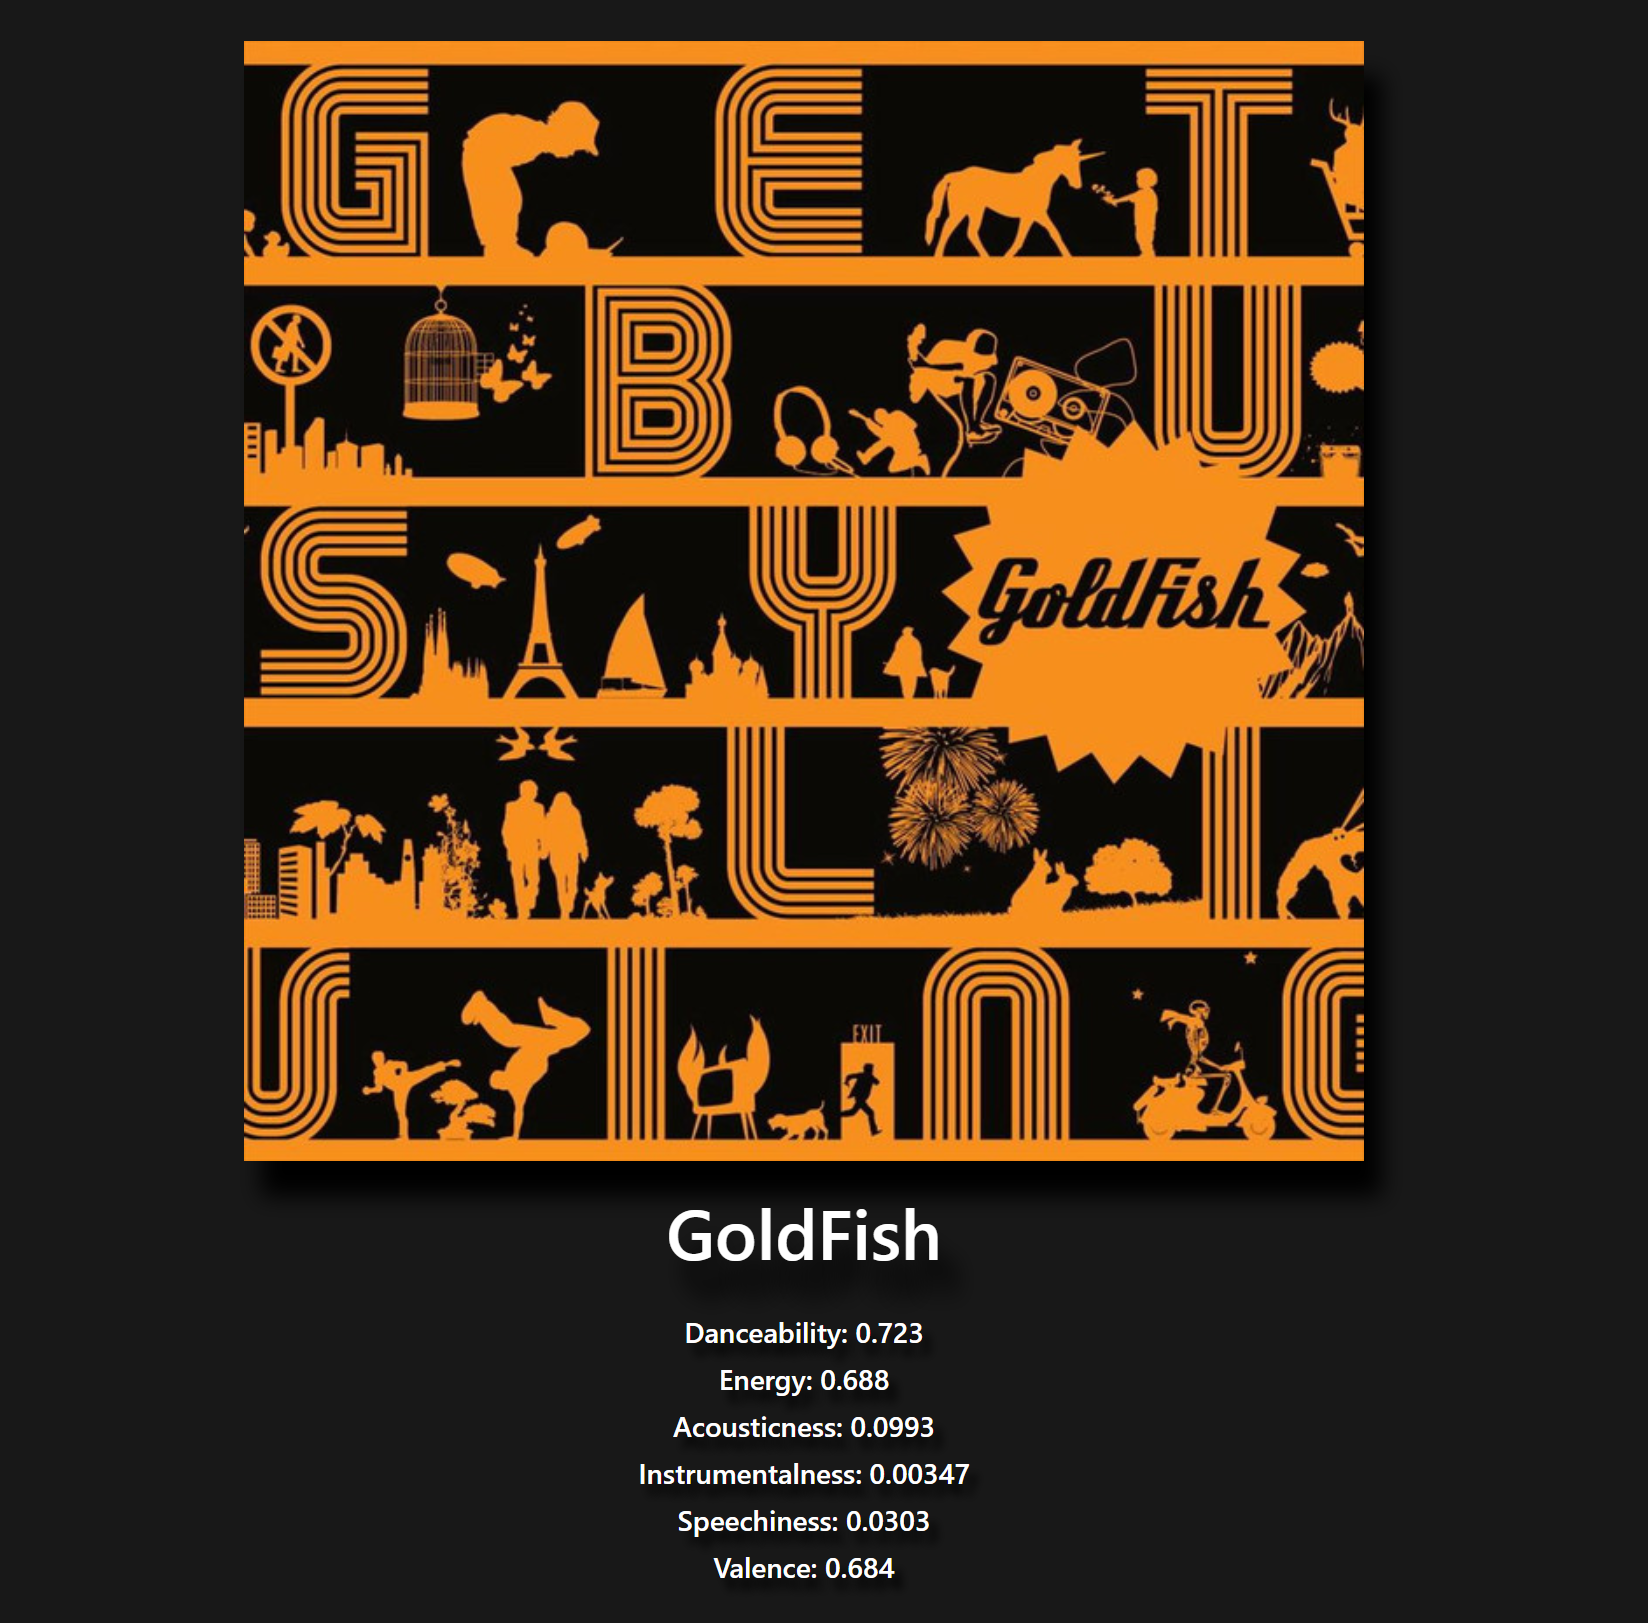
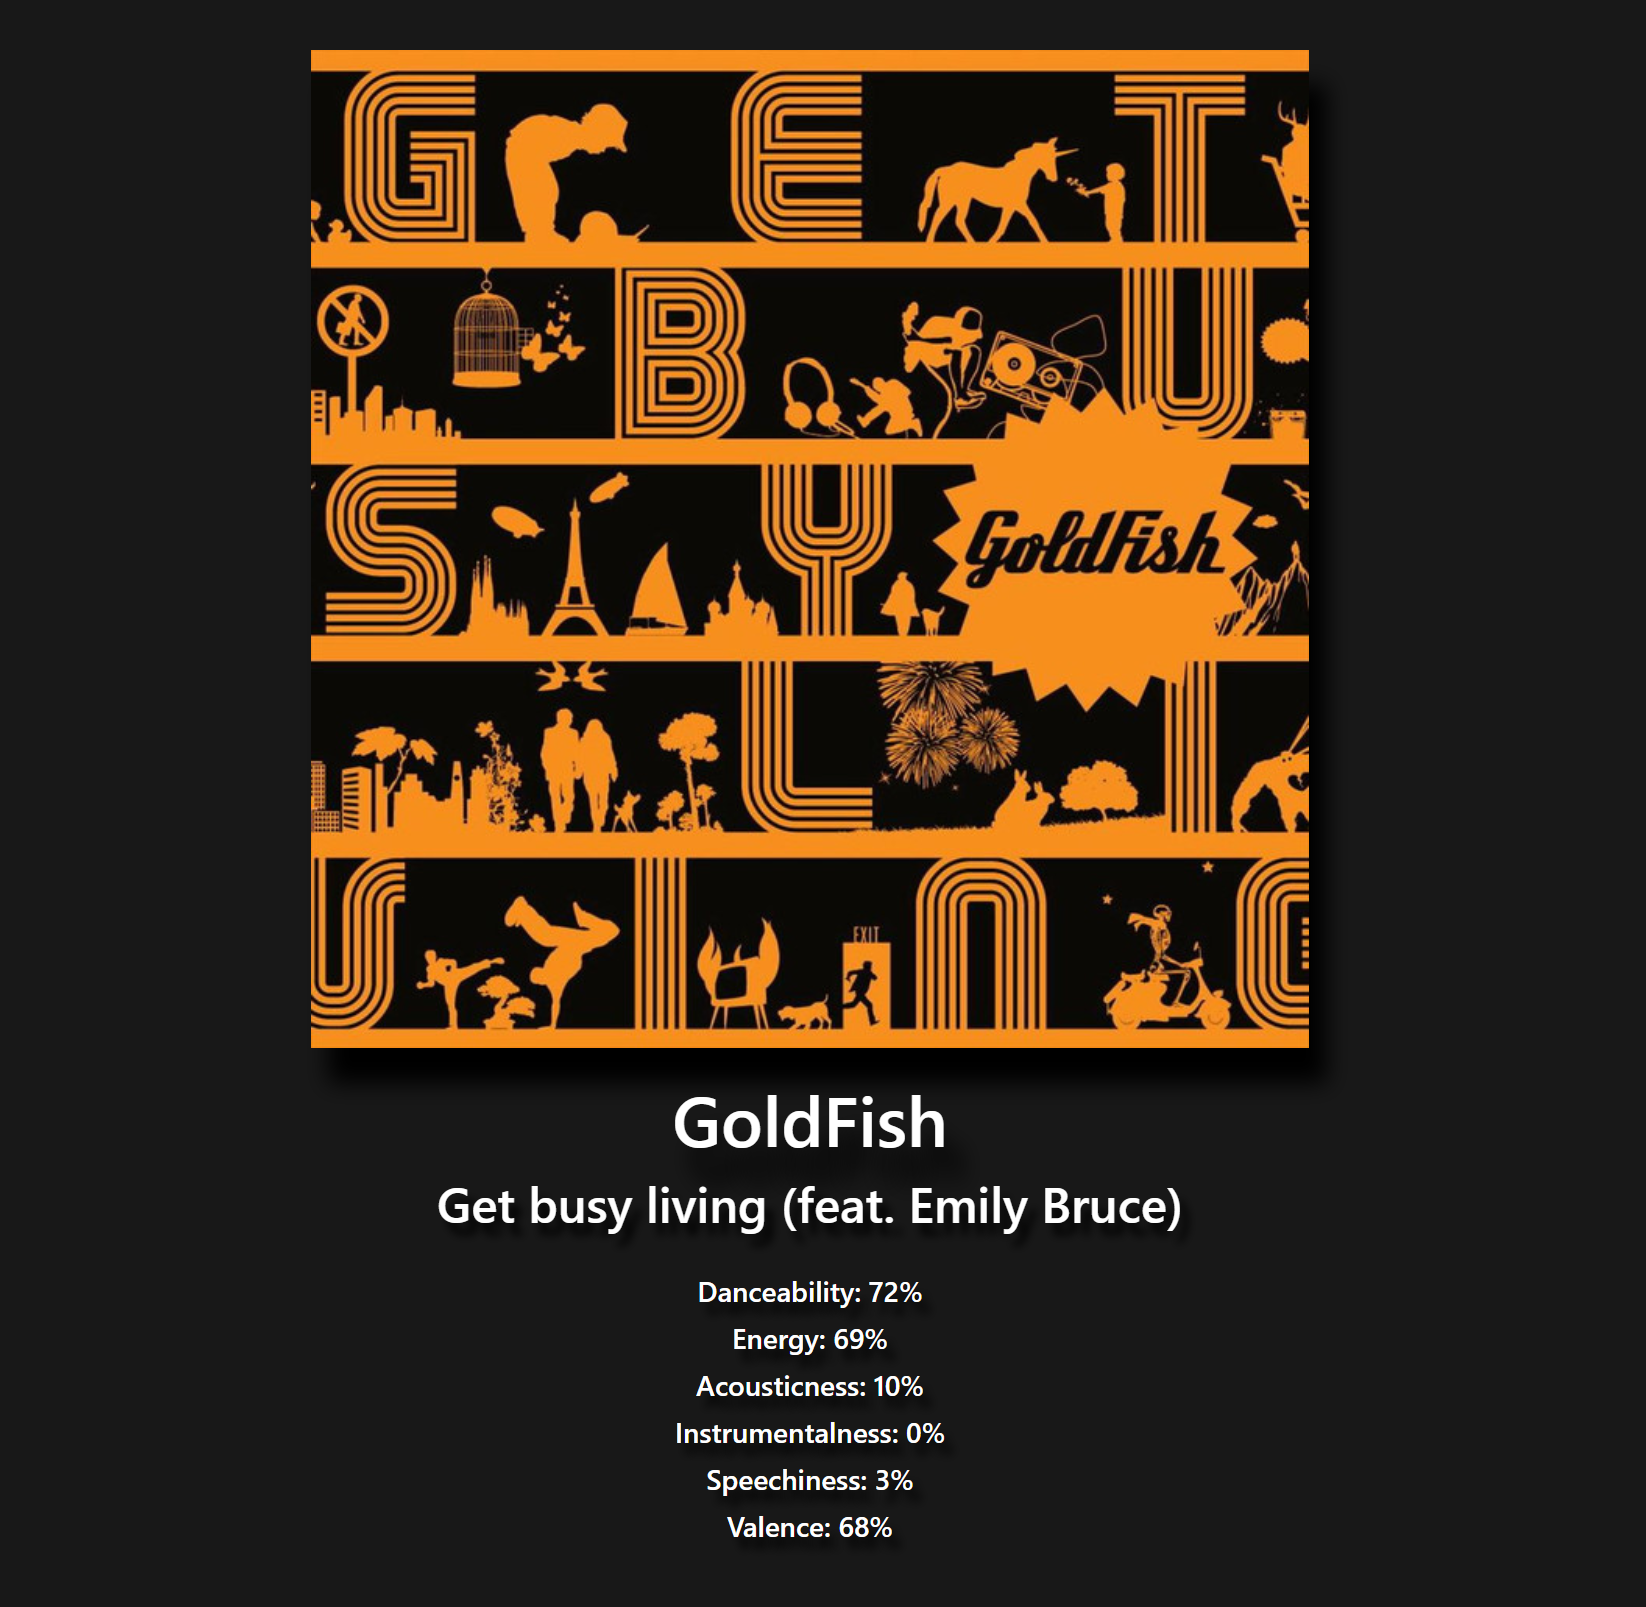
added mobile responsiveness

diff --git a/public/js/almost_there.js b/public/js/almost_there.js
@@ -78,115 +78,109 @@ var sliders = function () {
     $("#dance").ionRangeSlider({
         type: "double",
         min: 0,
-        max: 1,
-        from: minmaxarray[0],
-        to: minmaxarray[1],
-        step: 0.1,
+        max: 100,
+        from: minmaxarray[0]*100,
+        to: minmaxarray[1]*100,
+        step: 1,
         hide_min_max: true,
+        postfix: "%",
         onStart: function(data){
-            queryarray[0] = data.from;
-            queryarray[1] = data.to;
-            console.log(queryarray);
+            queryarray[0] = data.from/100;
+            queryarray[1] = data.to/100;
         },
         onFinish: function(data){
-            queryarray[0] = data.from;
-            queryarray[1] = data.to;
-            console.log(queryarray);
+            queryarray[0] = data.from/100;
+            queryarray[1] = data.to/100;
         }
     });
     $("#energy").ionRangeSlider({
         type: "double",
         min: 0,
-        max: 1,
-        from: minmaxarray[2],
-        to: minmaxarray[3],
-        step: 0.1,
+        max: 100,
+        from: minmaxarray[2]*100,
+        to: minmaxarray[3]*100,
+        step: 1,
         hide_min_max: true,
+        postfix: "%",
         onStart: function(data){
-            queryarray[2] = data.from;
-            queryarray[3] = data.to;
-            console.log(queryarray);
+            queryarray[2] = data.from/100;
+            queryarray[3] = data.to/100;
         },
         onFinish: function(data){
-            queryarray[2] = data.from;
-            queryarray[3] = data.to;
-            console.log(queryarray);
+            queryarray[2] = data.from/100;
+            queryarray[3] = data.to/100;
         }
     });
     $("#acoust").ionRangeSlider({
         type: "double",
         min: 0,
-        max: 1,
-        from: minmaxarray[4],
-        to: minmaxarray[5],
-        step: 0.1,
+        max: 100,
+        from: minmaxarray[4]*100,
+        to: minmaxarray[5]*100,
+        step: 1,
         hide_min_max: true,
+        postfix: "%",
         onStart: function(data){
-            queryarray[4] = data.from;
-            queryarray[5] = data.to;
-            console.log(queryarray);
+            queryarray[4] = data.from/100;
+            queryarray[5] = data.to/100;
         },
         onFinish: function(data){
-            queryarray[4] = data.from;
-            queryarray[5] = data.to;
-            console.log(queryarray);
+            queryarray[4] = data.from/100;
+            queryarray[5] = data.to/100;
         }
     });
     $("#instru").ionRangeSlider({
         type: "double",
         min: 0,
-        max: 1,
-        from: minmaxarray[6],
-        to: minmaxarray[7],
-        step: 0.1,
+        max: 100,
+        from: minmaxarray[6]*100,
+        to: minmaxarray[7]*100,
+        step: 1,
         hide_min_max: true,
+        postfix: "%",
         onStart: function(data){
-            queryarray[6] = data.from;
-            queryarray[7] = data.to;
-            console.log(queryarray);
+            queryarray[6] = data.from/100;
+            queryarray[7] = data.to/100;
         },
         onFinish: function(data){
-            queryarray[6] = data.from;
-            queryarray[7] = data.to;
-            console.log(queryarray);
+            queryarray[6] = data.from/100;
+            queryarray[7] = data.to/100;
         }
     });
     $("#speech").ionRangeSlider({
         type: "double",
         min: 0,
-        max: 1,
-        from: minmaxarray[8],
-        to: minmaxarray[9],
-        step: 0.1,
+        max: 100,
+        from: minmaxarray[8]*100,
+        to: minmaxarray[9]*100,
+        step: 1,
         hide_min_max: true,
+        postfix: "%",
         onStart: function(data){
-            queryarray[8] = data.from;
-            queryarray[9] = data.to;
-            console.log(queryarray);
+            queryarray[8] = data.from/100;
+            queryarray[9] = data.to/100;
         },
         onFinish: function(data){
-            queryarray[8] = data.from;
-            queryarray[9] = data.to;
-            console.log(queryarray);
+            queryarray[8] = data.from/100;
+            queryarray[9] = data.to/100;
         }
     });
     $("#valence").ionRangeSlider({
         type: "double",
         min: 0,
-        max: 1,
-        from: minmaxarray[10],
-        to: minmaxarray[11],
-        step: 0.1,
+        max: 100,
+        from: minmaxarray[10]*100,
+        to: minmaxarray[11]*100,
+        step: 1,
         hide_min_max: true,
+        postfix: "%",
         onStart: function(data){
-            queryarray[10] = data.from;
-            queryarray[11] = data.to;
-            console.log(queryarray);
+            queryarray[10] = data.from/100;
+            queryarray[11] = data.to/100;
         },
         onFinish: function(data){
-            queryarray[10] = data.from;
-            queryarray[11] = data.to;
-            console.log(queryarray);
+            queryarray[10] = data.from/100;
+            queryarray[11] = data.to/100;
         }
     });
 };
@@ -217,7 +211,6 @@ var finalRecommendation = function(data){
         },
         success: function(response){
             finalRun(response);
-            console.log(response);
         }
 
     });

diff --git a/public/css/app.css b/public/css/app.css
@@ -1,7 +1,9 @@
 body {
     background: rgb(24,24,24);
     color: white;
-    
+    position: absolute;
+    width: 100vw;
+    height: 100vh;
 }
 
 h1{
@@ -16,30 +18,37 @@ h6{
 
 .form-control{
     box-shadow: 10px 15px 15px black;
-    width: 500px;
+    width: 100%;
+    max-width: 500px;
+    text-align:center;
+    position: relative;
+    left: 50%;
+    transform: translateX(-50%);
 }
+
+
 
 .btn-primary, .btn-primary:hover, .btn-primary:active, .btn-primary:visited {
     background-color: #1db954 !important;
     border: #1db954;
     box-shadow: 7px 10px 15px black;
-    text-align: center;
+    
 }
 p{
     text-shadow: 5px 7px 7px  black;
-    width: 600px;
+    position: relative;
+    left: 50%;
+    transform: translateX(-50%);
+
 }
 
 .container{
-    position: absolute;
+    position: fixed;
     top: 50%;
     left: 50%;
     transform: translate(-50%,-50%);
-    display:flex;
-    flex-direction: column;
     align-items: center;
     text-align: center;
-
     
 }
 

diff --git a/app.js b/app.js
@@ -83,13 +83,13 @@ app.get('/results', function (req, res){
 //404 response
 app.use(function (req, res, next) {
   res.status(404);
-  res.render('404', { url: req.url });
+  res.render('404', { url: 'localhost:8888' + req.url });
 });
 
 //spotify Authentication
 //
-var client_id = 'replace with your client id here'; // Your client id
-var client_secret = 'replace with your client secret here'; // Your secret 
+var client_id = 'your id goes here'; // Your client id
+var client_secret = 'your secret goes here'; // Your secret
 
 // your application requests authorization
 var authOptions = {

diff --git a/public/css/almost_there.css b/public/css/almost_there.css
@@ -1,6 +1,7 @@
 body {
     background: rgb(24,24,24);
     color: white;
+
 }
 
 h1{
@@ -20,9 +21,12 @@ h3{
 img{
     margin-top: 2rem;
     box-shadow: 10px 20px 20px  black;
+    max-width:100%;
+
 }
 
 .sliders-container{
+    max-width:100%;
     width: 600px;
     margin: 0 auto;
     padding: 1rem;
@@ -39,4 +43,11 @@ p{
     box-shadow: 7px 10px 15px black;
     text-align: center;
     margin-bottom: 1.5rem;
+}
+
+.container{
+    align-items: center;
+    text-align: center;
+    max-width: 600px;
+    
 }

diff --git a/README.md b/README.md
@@ -1,7 +1,7 @@
 <h1><b>SoundsLike Webapp</b></h1>
 
 <h3><b>Author: Louis Huerta-Blake</b></h3>
-<h4><b>README Last Edited: 5/3/2018</b><h4>
+<h4><b>README Last Edited: 5/10/2018</b><h4>
 
 <h2><b><u>Summary</u></b></h2>
 
@@ -46,6 +46,12 @@
 
 <h2><b><u>Version</u></b></h2>
 
+>* 1.2: Mobile Responsiveness
+>   * Added mobile scaling to the pages. Should no longer overflow and scale to the screen correctly
+>   * Upcoming Updates:
+>       * Adding links to recommended songs and artists in next update
+>       * Clearing code for readibility (ongoing)
+>       * typeahead will be coming within the next week
 >* 1.1: Artist filter
 >   * Added artist filter to the app, can now filter song choice further by adding the artist to the query.
 >   * Added song name to the /almost_there page for confirmation of song selected.
@@ -58,3 +64,4 @@
 >* Currently if multiple artists share a song name, the search will select the most popular of potential choices. Future plan to add artist option in the query or typeahead.
 >* Beautification of the page will be continuing in future releases.
 >* Considering adding album images for each of the recommended tracks
+>* cleaning code: seperating into multiple JS files for ease of readibility and adding comments
